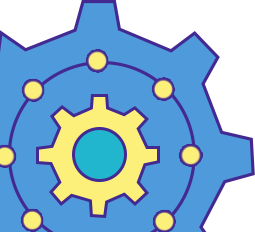
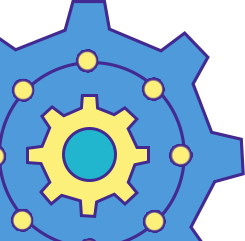
footer增加齿轮

diff --git a/src/components/Layout/Vfooter.vue b/src/components/Layout/Vfooter.vue
@@ -7,8 +7,9 @@
         </div>
         <div class="bottom">
             <div class="bottom-in">
-                <!-- <div class="chilun1"></div> -->
+                <div class="chilun1"></div>
                 <div class="mid-chilun"></div>
+                <div class="chilun2"></div>
             </div>
         </div>
     </footer>
@@ -24,7 +25,6 @@ export default {
     footer {
         width: 100%;
         height: 400px;
-        //background: #000;
     }
     .content {
         width: 100%;
@@ -47,7 +47,6 @@ export default {
     .bottom {
         width: 100%;
         height: 270px;
-        // position: absolute
         display: flex;
         align-items: flex-end;
     }
@@ -55,7 +54,6 @@ export default {
         width: 1600px;
         display: flex;
         align-items: flex-end;
-        // position: absolute;
         margin: 0 auto;
     }
     .chilun1 {
@@ -70,7 +68,11 @@ export default {
         width: 1000px;
         height: 250px;
         margin: 0 auto;
-        // position: relative;
-        // bottom: 0px;
+    }
+    .chilun2 {
+        background: url('../../assets/footer-chilun2.png') no-repeat;
+        background-size: 100% 100%;
+        width: 200px;
+        height: 200px;
     }
 </style>

diff --git a/public/index.html b/public/index.html
@@ -19,15 +19,15 @@
 									   color-stop(0.44, rgb(144, 181, 255)),
 									   color-stop(0.72, rgb(92, 160, 243)),
                                        color-stop(0.86, rgb(26, 185, 212)));
-        border: solid 4px #33157b;
+        border: solid 3px #33157b;
     }
     ::-webkit-scrollbar-track {
-        background-color: rgb(151, 248, 235);
+        background-color: rgb(244, 236, 242);
         border-radius: 4px;
-        border: solid 4px #33157b;
+        
     }
     ::-webkit-scrollbar {
-        width: 20px;
+        width: 15px;
         background-color: rgb(245, 245, 245);
     }
     </style>

diff --git a/src/components/Style/JiaoShiDaiBiao.vue b/src/components/Style/JiaoShiDaiBiao.vue
@@ -51,4 +51,17 @@ export default {
     ::-webkit-scrollbar {
         width: 30px;
     }
+    ::-webkit-scrollbar-thumb {
+        border: solid 4px #33157b;
+        background-image: -webkit-gradient(linear,
+									   left bottom,
+									   left top,
+									   color-stop(0.44, #80fdf9),
+									   color-stop(0.72, #48ebe5),
+                                       color-stop(0.86, #06dfd7));
+    }
+    ::-webkit-scrollbar-track {
+        background: #c4f3f0;
+        border: solid 4px #33157b;
+    }
 </style>
